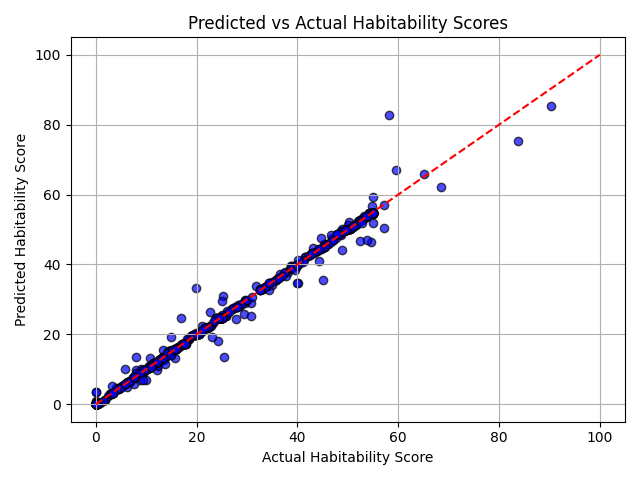
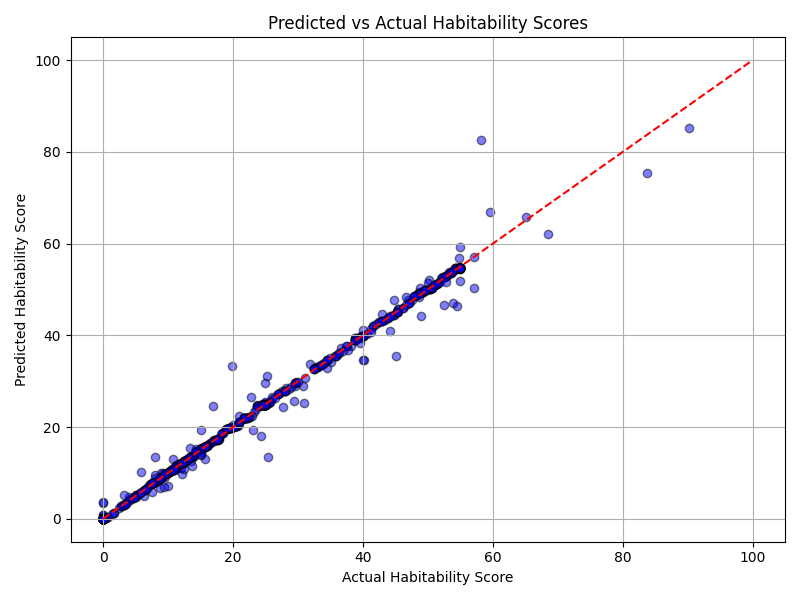
readme + extras

Changed region(s): [[0.0, 0.0312, 1.0, 0.9688], [0.6875, 0.3125, 0.7188, 0.3438]]

diff --git a/src/score.py b/src/score.py
@@ -6,11 +6,14 @@ def planet_score(planet):
     rade_score = 0
     masse_score = 0
     dens_score = 0
-    eccen_score = 0
     insol_score = 0
 
-    temp = planet["pl_eqt"]
-    if 250 <= temp <= 290:
+    # full score is achieved for being in a small safe zone
+    # linear interpolation is used to determine score slightly outside safe zone
+    # 0 points for being too far outside the safe zone
+
+    temp = planet["pl_eqt"] 
+    if 250 <= temp <= 290: # safe zone is between 250 - 290 K (-23 C to 23 C)
         temp_score = 1
     elif 200 <= temp < 250:
         temp_score = (temp - 200) / 50
@@ -20,7 +23,7 @@ def planet_score(planet):
         temp_score = 0
 
     rade = planet["pl_rade"]
-    if 0.75 <= rade <= 1.25:
+    if 0.75 <= rade <= 1.25: # safe zone is between 0.75 to 1.25 Earth radii
         rade_score = 1
     elif 0.5 <= rade < 0.75:
         rade_score = (rade - 0.5) / 0.25
@@ -30,7 +33,7 @@ def planet_score(planet):
         rade_score = 0
 
     masse = planet["pl_bmasse"]
-    if 0.75 <= masse <= 3:
+    if 0.75 <= masse <= 3: # safe zone is between 0.75 and 3 Earth masses
         masse_score = 1
     elif 0.5 <= masse < 0.75:
         masse_score = (masse - 0.5) / 0.25
@@ -40,17 +43,17 @@ def planet_score(planet):
         masse_score = 0
 
     dens = planet["pl_dens"]
-    if 3 <= dens <= 8:
+    if 3 <= dens <= 8: # safe zone is between 3 and 8 g/cm^3, likely rocky
         dens_score = 1
     elif 1 <= dens < 3:
         dens_score = (dens - 1) / 2
-    elif 8 < dens <= 10:
+    elif 8 < dens <= 10: # likely gas if greater than 10 g/cm^3
         dens_score = (10 - dens) / 2
     else:
         dens_score = 0
 
     insol = planet["pl_insol"]
-    if 0.75 <= insol <= 1.25:
+    if 0.75 <= insol <= 1.25: # safe zone is between 0.75 and 1.25 Earth flux
         insol_score = 1
     elif 0.5 <= insol < 0.75:
         insol_score = (insol - 0.5) / 0.25
@@ -65,9 +68,12 @@ def planet_score(planet):
 
 exoplanetDF = pd.read_csv("data/processed_data.csv")
 scores = []
+
+# iterate through every planet and score
 for blank, planet in exoplanetDF.iterrows():
     scores.append(planet_score(planet))
 
+# add score series to DF
 exoplanetDF["score"] = scores
 
 exoplanetDF.to_csv("data/scored_exoplanets.csv", index=False)

diff --git a/src/preprocess.py b/src/preprocess.py
@@ -1,21 +1,23 @@
 import pandas as pd
 
-rawDF = pd.read_csv("data/exoplanet_data.csv", comment="#") # Reading data without comments.
+rawDF = pd.read_csv("data/exoplanet_data.csv", comment="#")
 
-rawDF = rawDF.dropna() # Dropping all NAs for clean data.
+# Dropping all NAs for clean data.
+rawDF = rawDF.dropna() 
 
-rawDF = rawDF.drop("st_teff", axis=1) # Decided to drop host's values.
+# Decided to drop host's values.
+rawDF = rawDF.drop("st_teff", axis=1) 
 rawDF = rawDF.drop("st_rad", axis=1)
 rawDF = rawDF.drop("st_mass", axis=1)
 rawDF = rawDF.drop("st_lum", axis=1)
 
-rawDF = rawDF[rawDF['pl_orbsmax'] <= 1.5] # Planet to host distance set to less than 1.5 AU
+rawDF = rawDF[rawDF['pl_orbsmax'] <= 1.5] # Planet to host distance set to less than 1.5 AU, unused in scoring
 rawDF = rawDF[rawDF['pl_rade'] <= 20] # Planet radius set to less than 20 Earth radii
 rawDF = rawDF[rawDF['pl_bmasse'] <= 1000] # Planet mass set to less than 1000 Earth masses
 rawDF = rawDF[rawDF['pl_dens'] <= 30] # Planet density set to less than 30 g/cm^3
-rawDF = rawDF[rawDF['pl_orbeccen'] >= 0] # Planet orbital eccentricity set to greater than 0
+rawDF = rawDF[rawDF['pl_orbeccen'] >= 0] # Planet orbital eccentricity set to greater than 0, unused in scoring
 cleanDF = rawDF[rawDF['pl_insol'] <= 4000] # Planet insolation flux set to less than 4000 Earth flux
 # Planet equilibrium temperature data already clean
 # Planet distance from Earth already clean
 
-cleanDF.to_csv("data/processed_data.csv", index=False) # Exporting clean data.
+cleanDF.to_csv("data/processed_data.csv", index=False)

diff --git a/src/train_predict.py b/src/train_predict.py
@@ -25,7 +25,8 @@ r2 = r2_score(y_test, y_pred)
 print("Mean Squared Error:", mse)
 print("R^2 Score:", r2)
 
-plt.scatter(y_test, y_pred, color='blue', edgecolor='black', alpha=0.7)
+plt.figure(figsize=(8,6))
+plt.scatter(y_test, y_pred, color='blue', edgecolor='black', alpha=0.5)
 plt.plot([0, 100], [0, 100], color='red', linestyle='--')
 plt.xlabel('Actual Habitability Score')
 plt.ylabel('Predicted Habitability Score')

diff --git a/README.md b/README.md
@@ -1,2 +1,4 @@
-# exoplanet-analysis
+# Predicting Exoplanet Habitability with Machine Learning
 Analyzing NASA exoplanet data to predict habitability using simple models
+
+
